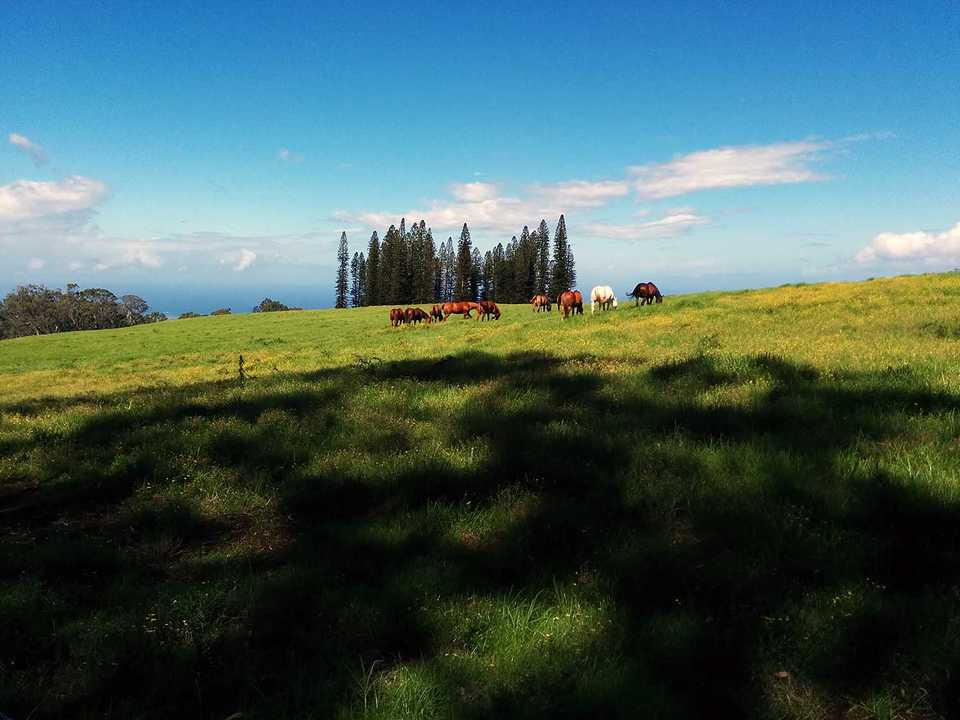
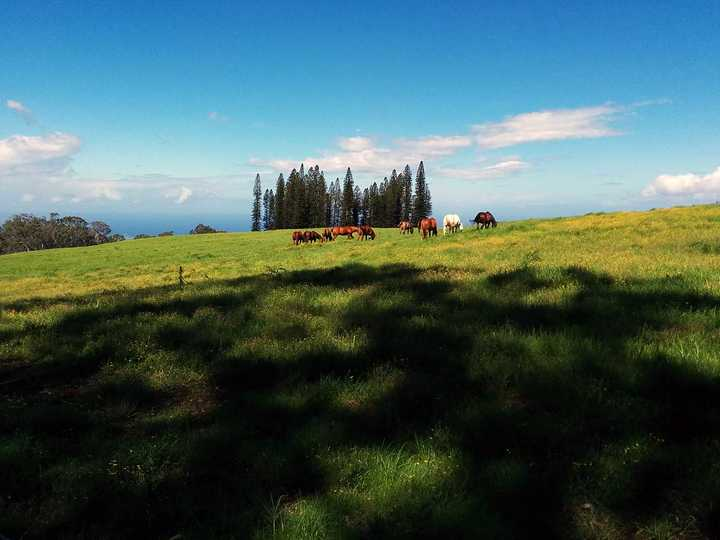
further decrease resolution

Changed region(s): [[0.3361, 0.2963, 0.6417, 0.4444], [0.6722, 0.3852, 0.7028, 0.4148], [0.2444, 0.5037, 0.275, 0.5333]]

diff --git a/index.html b/index.html
@@ -1,7 +1,7 @@
 <!DOCTYPE html>
 <html>
 <head>
-
+  <meta charset="utf-8">
   <meta name="description" content="Udacity Responsive Images course project" />
   <meta name="author" content="//samdutton.com">
   <meta name="viewport" content="width=device-width, minimum-scale=1.0, initial-scale=1.0, user-scalable=yes">
@@ -70,7 +70,7 @@
 
   </article>
 
-  <img style="max-width: 100%" src="images_src/fixed/flourish.png">
+  <!--<img style="max-width: 100%" src="images_src/fixed/flourish.png">-->
   <!--
   Flourish credit: http://pixabay.com/en/flourish-line-border-decoration-31609/
   -->

diff --git a/Gruntfile.js b/Gruntfile.js
@@ -15,7 +15,7 @@ module.exports = function(grunt) {
           engine: 'im',
           sizes: [{
             name: 'optimized',
-            width: 960,
+            width: 720,
             quality: 50
           }]
         },

diff --git a/css/main.css b/css/main.css
@@ -15,11 +15,11 @@ I've left some boilerplate below for you.
 body {
   display: block;
   margin: auto;
-  max-width:960px;
+  max-width:720px;
 }
 
 article {
-  max-width: 960px;
+  max-width: 720px;
 }
 
 h1 {
